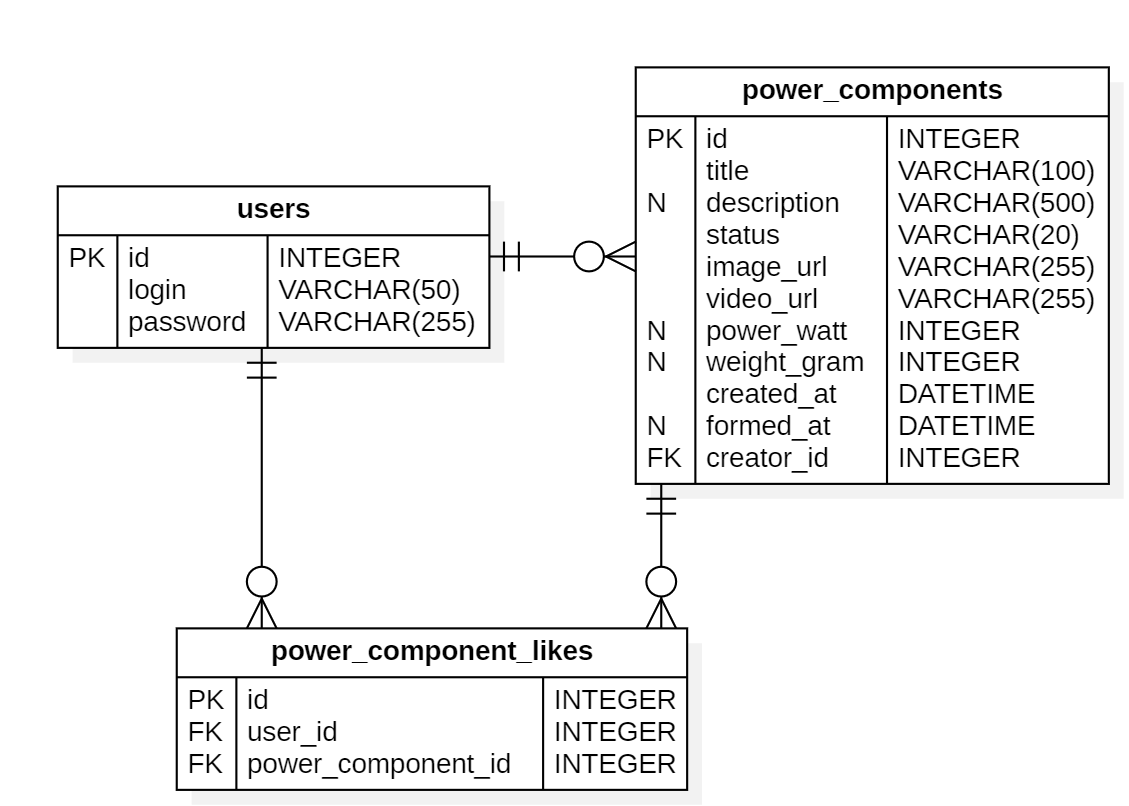
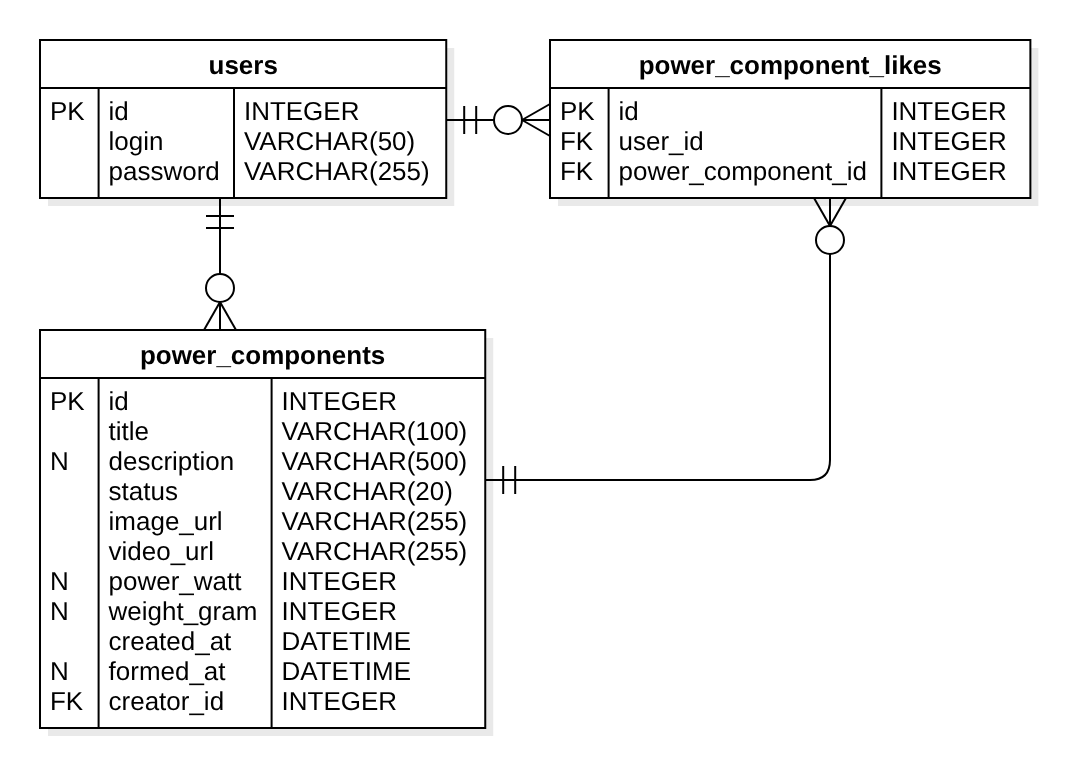
refactor: внесены правки по требованиям

diff --git a/schemas/power_component.py b/schemas/power_component.py
@@ -23,7 +23,7 @@ class PowerComponentListItemSerializer(BaseModel):
     weight_gram: int | None
     likes_count: int
     is_mine: int = Field(
-        description="1 — компонент создан текущим пользователем, иначе 0. "
+        description="1 - компонент создан текущим пользователем, иначе 0. "
         "Нужен плитке: кнопка «Удалить» показывается только у своих карточек"
     )
 
@@ -62,11 +62,11 @@ class PowerComponentFeedSerializer(BaseModel):
     creator: UserSerializer
     likes_count: int
     is_liked: int = Field(
-        description="1 — текущий пользователь уже поставил лайк, иначе 0. "
+        description="1 - текущий пользователь уже поставил лайк, иначе 0. "
         "Нужен ленте: закрашенное или пустое сердце и какое значение like отправить в POST лайка"
     )
     is_mine: int = Field(
-        description="1 — компонент создан текущим пользователем, иначе 0. "
+        description="1 - компонент создан текущим пользователем, иначе 0. "
         "Нужен ленте, чтобы показать кнопку удаления у своей карточки"
     )
 
@@ -95,7 +95,7 @@ class PowerComponentPublishRequest(BaseModel):
 
 
 class PowerComponentLikeRequest(BaseModel):
-    """Тело POST лайка: 1 — поставить лайк, 0 — отменить."""
+    """Тело POST лайка: 1 - поставить лайк, 0 - отменить."""
 
     model_config = ConfigDict(extra="forbid")
 

diff --git a/schemas/common.py b/schemas/common.py
@@ -1,8 +1,8 @@
 """Общие схемы ответов API.
 
-Успешный ответ — сами данные (объект или массив) без обёрток,
+Успешный ответ - сами данные (объект или массив) без обёрток,
 результат передаётся HTTP-кодом ответа (200, 201, 204).
-Ошибка — HTTP-код 4xx/5xx и стандартное для FastAPI тело {"detail": "..."}.
+Ошибка - HTTP-код 4xx/5xx и стандартное для FastAPI тело {"detail": "..."}.
 """
 
 from pydantic import BaseModel
